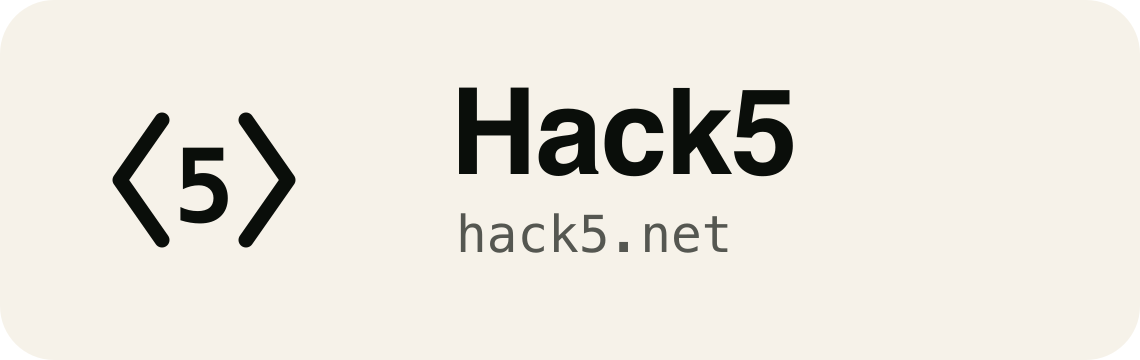
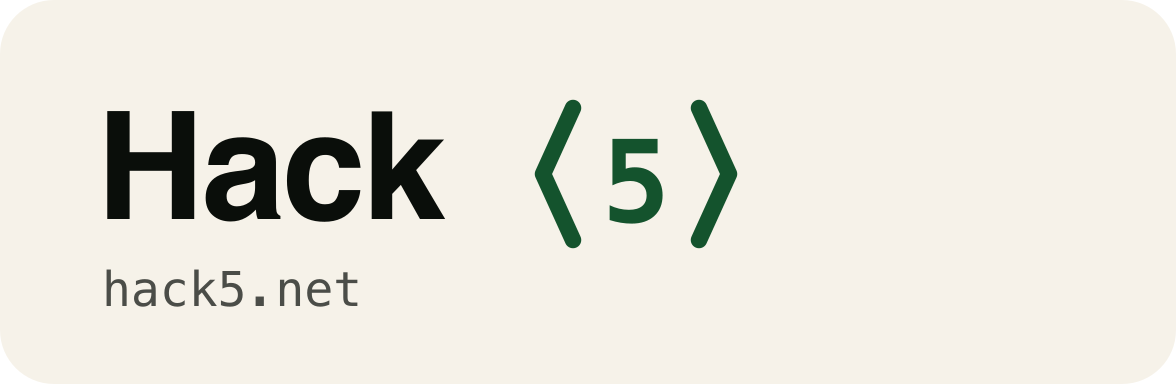
feat(brand): wordmark → Hack‹5›, Matrix green #00FF41 on dark
Per feedback:
- Wordmark 'Hack5' → 'Hack‹5›' (the ‹5› brand glyph replaces the '5'); the
  full lockup drops the separate leading ‹5› (that stays only as the
  standalone mark). Applied to brand assets, media-kit cards, nav, emails,
  and the poster (cream chip removed → 'Hack‹5›' wordmark).
- On-dark green forest #2F9E5F → Matrix #00FF41 everywhere (favicon, poster
  logo+underline+glow, color palette, media-kit black card).
- Cream lockup stays two-tone: black 'Hack' + ink-green ‹5›.
- Regenerated the 4 brand assets (SVG+PNG) with the new structure/colors.
Rendered previews confirmed (lockups + poster).

Changed region(s): [[0.0921, 0.2444, 0.7061, 0.7944]]

diff --git a/src/index.ts b/src/index.ts
@@ -1250,7 +1250,7 @@ async function sendHackathonReadyEmail(env: Env, email: string, name: string, ur
     `<div style="background:#f6f7fb;padding:32px 16px;font-family:-apple-system,BlinkMacSystemFont,'Segoe UI',Roboto,Helvetica,Arial,sans-serif">` +
     `<table role="presentation" width="100%" cellpadding="0" cellspacing="0"><tr><td align="center">` +
     `<table role="presentation" width="460" cellpadding="0" cellspacing="0" style="max-width:460px;width:100%">` +
-    `<tr><td align="center" style="padding-bottom:20px"><span style="display:inline-block;width:40px;height:40px;line-height:40px;background:#f6f2e9;border:1px solid rgba(20,83,45,.25);box-sizing:border-box;border-radius:11px;color:#14532d;font-family:ui-monospace,Menlo,Consolas,monospace;font-weight:800;font-size:18px;text-align:center;vertical-align:middle">&#8249;5&#8250;</span><span style="font-size:22px;font-weight:800;color:#14532d;vertical-align:middle;padding-left:10px">Hack5</span></td></tr>` +
+    `<tr><td align="center" style="padding-bottom:20px"><span style="font-size:24px;font-weight:800;color:#14532d;font-family:ui-monospace,Menlo,Consolas,monospace">Hack&#8249;5&#8250;</span></td></tr>` +
     `<tr><td style="background:#ffffff;border-radius:14px;padding:30px 28px;border:1px solid #e6e9f0">` +
     `<h1 style="font-size:20px;margin:0 0 6px;color:#14161c">${escapeHtml(name)} ` + `<span style="color:#0f9d6b">✓</span></h1>` +
     `<p style="color:#5f6675;font-size:15px;margin:0 0 16px">你的黑客松已就绪 · Your hackathon is live</p>` +
@@ -1306,7 +1306,7 @@ async function sendRegistrationConfirmEmail(
     `<div style="background:#f6f7fb;padding:32px 16px;font-family:-apple-system,BlinkMacSystemFont,'Segoe UI',Roboto,Helvetica,Arial,sans-serif">` +
     `<table role="presentation" width="100%" cellpadding="0" cellspacing="0"><tr><td align="center">` +
     `<table role="presentation" width="460" cellpadding="0" cellspacing="0" style="max-width:460px;width:100%">` +
-    `<tr><td align="center" style="padding-bottom:20px"><span style="display:inline-block;width:40px;height:40px;line-height:40px;background:#f6f2e9;border:1px solid rgba(20,83,45,.25);box-sizing:border-box;border-radius:11px;color:#14532d;font-family:ui-monospace,Menlo,Consolas,monospace;font-weight:800;font-size:18px;text-align:center;vertical-align:middle">&#8249;5&#8250;</span><span style="font-size:22px;font-weight:800;color:#14532d;vertical-align:middle;padding-left:10px">Hack5</span></td></tr>` +
+    `<tr><td align="center" style="padding-bottom:20px"><span style="font-size:24px;font-weight:800;color:#14532d;font-family:ui-monospace,Menlo,Consolas,monospace">Hack&#8249;5&#8250;</span></td></tr>` +
     `<tr><td style="background:#ffffff;border-radius:14px;padding:30px 28px;border:1px solid #e6e9f0">` +
     `<h1 style="font-size:20px;margin:0 0 6px;color:#14161c">${escapeHtml(hackathonName)} <span style="color:#0f9d6b">✓</span></h1>` +
     `<p style="color:#5f6675;font-size:15px;margin:0 0 14px">报名成功 · You are registered</p>` +
@@ -1362,8 +1362,7 @@ async function sendEmailCode(env: Env, email: string, code: string): Promise<boo
     `<table role="presentation" width="100%" cellpadding="0" cellspacing="0"><tr><td align="center">` +
     `<table role="presentation" width="440" cellpadding="0" cellspacing="0" style="max-width:440px;width:100%">` +
     `<tr><td align="center" style="padding-bottom:22px">` +
-    `<span style="display:inline-block;width:40px;height:40px;line-height:38px;background:#f6f2e9;border:1px solid rgba(20,83,45,.25);box-sizing:border-box;border-radius:11px;color:#14532d;font-family:ui-monospace,Menlo,Consolas,monospace;font-weight:800;font-size:18px;text-align:center;vertical-align:middle">&#8249;5&#8250;</span>` +
-    `<span style="font-size:22px;font-weight:800;color:#14532d;vertical-align:middle;padding-left:10px">Hack5</span>` +
+    `<span style="font-size:24px;font-weight:800;color:#14532d;font-family:ui-monospace,Menlo,Consolas,monospace">Hack&#8249;5&#8250;</span>` +
     `</td></tr>` +
     `<tr><td style="background:#ffffff;border-radius:14px;padding:30px 28px;border:1px solid #e6e9f0">` +
     `<p style="color:#5f6675;font-size:15px;margin:0 0 10px">你的 Hack5 登录验证码 · Your login code</p>` +
@@ -2692,10 +2691,9 @@ async function sendBuildQueuedEmail(
     `你的作品「${projectName}」已排队构建 ✨\n\n` +
     `公有仓库:${repoUrl}\n作品详情(含实时构建进度):${viewUrl}\n\n` +
     `编辑令牌(请妥善保存,用于日后编辑作品):${editToken}\n\n— Hack5`;
-  const badge = `<span style="display:inline-block;width:40px;height:40px;line-height:38px;background:#f6f2e9;border:1px solid rgba(20,83,45,.25);box-sizing:border-box;border-radius:11px;color:#14532d;font-family:ui-monospace,Menlo,Consolas,monospace;font-weight:800;font-size:18px;text-align:center;vertical-align:middle">&#8249;5&#8250;</span>`;
   const html =
     `<div style="font-family:-apple-system,Segoe UI,Roboto,sans-serif;max-width:520px;margin:0 auto;color:#14161c">` +
-    `<div style="text-align:center;padding:8px 0 16px">${badge}<span style="font-size:22px;font-weight:800;color:#14532d;vertical-align:middle;padding-left:10px">Hack5</span></div>` +
+    `<div style="text-align:center;padding:8px 0 16px"><span style="font-size:24px;font-weight:800;color:#14532d;font-family:ui-monospace,Menlo,Consolas,monospace">Hack&#8249;5&#8250;</span></div>` +
     `<p style="font-size:16px">你的作品 <b>${escapeHtml(projectName)}</b> 已排队构建 ✨</p>` +
     `<p style="font-size:14px;color:#3c4250">公有仓库:<a href="${escapeHtml(repoUrl)}">${escapeHtml(repoUrl)}</a><br>` +
     `作品详情(含实时构建进度):<a href="${escapeHtml(viewUrl)}">${escapeHtml(viewUrl)}</a></p>` +
@@ -4197,13 +4195,11 @@ const APP_HTML = String.raw`<!doctype html>
 <body>
   <header>
     <div class="brand" onclick="go('/')">
-      <svg width="32" height="32" viewBox="0 0 40 40" aria-hidden="true" style="flex:0 0 auto">
-        <rect width="40" height="40" rx="11" fill="#f6f2e9" stroke="#14532d" stroke-opacity=".22"/>
-        <path d="M12 13 6.5 20 12 27" fill="none" stroke="#14532d" stroke-width="2.4" stroke-linecap="round" stroke-linejoin="round"/>
-        <path d="M28 13 33.5 20 28 27" fill="none" stroke="#14532d" stroke-width="2.4" stroke-linecap="round" stroke-linejoin="round"/>
-        <text x="20" y="26.5" text-anchor="middle" font-family="ui-monospace,Menlo,monospace" font-size="17" font-weight="800" fill="#14532d">5</text>
-      </svg>
-      <span id="brandName">Hack5</span></div>
+      <span id="brandName">Hack</span><svg width="27" height="27" viewBox="0 0 40 40" aria-hidden="true" style="flex:0 0 auto;margin-left:1px">
+        <path d="M12 13 6.5 20 12 27" fill="none" stroke="#14532d" stroke-width="2.6" stroke-linecap="round" stroke-linejoin="round"/>
+        <path d="M28 13 33.5 20 28 27" fill="none" stroke="#14532d" stroke-width="2.6" stroke-linecap="round" stroke-linejoin="round"/>
+        <text x="20" y="26.5" text-anchor="middle" font-family="ui-monospace,Menlo,monospace" font-size="18" font-weight="800" fill="#14532d">5</text>
+      </svg></div>
     <nav id="nav"></nav>
   </header>
   <main id="app"></main>
@@ -4938,19 +4934,19 @@ const APP_HTML = String.raw`<!doctype html>
   // displayed + mark-only + PNG) + usage note. Marks inlined so it renders without a fetch.
   function mediaKitHtml(){
     // Unified mark: ‹5› chevrons + "5", one color per theme. Cream lockup = black; black lockup = forest green.
-    const mkMark = function(c){ return '<svg xmlns="http://www.w3.org/2000/svg" viewBox="0 0 40 40" width="52" height="52" aria-label="Hack5">'
+    // The ‹5› chevron mark, inline inside the "Hack‹5›" wordmark (no separate leading mark).
+    const mkMark = function(c,sz){ sz=sz||40; return '<svg xmlns="http://www.w3.org/2000/svg" viewBox="0 0 40 40" width="'+sz+'" height="'+sz+'" aria-label="5">'
       +'<path d="M12 13 6.5 20 12 27" fill="none" stroke="'+c+'" stroke-width="2.4" stroke-linecap="round" stroke-linejoin="round"/>'
       +'<path d="M28 13 33.5 20 28 27" fill="none" stroke="'+c+'" stroke-width="2.4" stroke-linecap="round" stroke-linejoin="round"/>'
       +'<text x="20" y="26.5" text-anchor="middle" font-family="ui-monospace,Menlo,monospace" font-size="17" font-weight="800" fill="'+c+'">5</text></svg>'; };
-    const card = function(bg,c){ return '<div style="flex:1;min-width:210px;background:'+bg+';border-radius:14px;padding:22px;display:flex;align-items:center;gap:14px;border:1px solid rgba(128,128,128,.14)">'
-      +'<span style="flex:none;line-height:0">'+mkMark(c)+'</span>'
-      +'<div><div style="font-size:23px;font-weight:800;color:'+c+';font-family:ui-monospace,Menlo,monospace;letter-spacing:-.5px">Hack5</div>'
-      +'<div style="font-size:13px;color:'+c+';opacity:.7">hack5.net</div></div></div>'; };
+    const card = function(bg,hackC,markC){ return '<div style="flex:1;min-width:210px;background:'+bg+';border-radius:14px;padding:22px;border:1px solid rgba(128,128,128,.14)">'
+      +'<div style="display:flex;align-items:center;gap:2px"><span style="font-size:30px;font-weight:800;color:'+hackC+';font-family:Inter,ui-sans-serif,-apple-system,sans-serif;letter-spacing:-1px;line-height:1">Hack</span><span style="line-height:0">'+mkMark(markC,42)+'</span></div>'
+      +'<div style="font-size:13px;color:'+hackC+';opacity:.65;font-family:ui-monospace,Menlo,monospace;margin-top:6px">hack5.net</div></div>'; };
     return '<h2 style="margin:30px 2px 12px;font-size:20px">'+t('媒体资源','Media kit')+'</h2>'
       + '<div class="panel">'
       +   '<div style="display:flex;gap:16px;flex-wrap:wrap">'
-      +     card('#f6f2e9','#0a0e0a')   // cream bg → black lockup
-      +     card('#0a0e0a','#2f9e5f')   // black bg → forest-green lockup
+      +     card('#f6f2e9','#0a0e0a','#14532d')   // cream: black "Hack" + ink-green ‹5›
+      +     card('#0a0e0a','#00ff41','#00ff41')   // black: all matrix green
       +   '</div>'
       +   '<div class="muted" style="font-size:12px;margin:14px 0 6px">'+t('完整标识(字符标 + 字标 + 域名,即上图):','Full lockup (mark + wordmark + domain, as shown):')+'</div>'
       +   '<div class="row" style="gap:8px;flex-wrap:wrap">'
@@ -4966,7 +4962,7 @@ const APP_HTML = String.raw`<!doctype html>
       +     '<a href="/brand/hack5-mark-black.png" download><button class="ghost">⬇ '+t('黑底(森绿标)','Black (green mark)')+' PNG</button></a>'
       +     '<a href="/brand/hack5-mark-black.svg" download><button class="ghost">⬇ SVG</button></a>'
       +   '</div>'
-      +   '<p class="muted" style="margin:12px 2px 0;font-size:12.5px;line-height:1.7">'+t('配色统一:墨绿 #14532D(奶白底的字符标)· 森林绿 #2F9E5F(黑底)· 黑 #0A0E0A(奶白底的字标)· 奶白 #F6F2E9。标识 = &lt;5&gt; 字符标 + 「Hack5」字标 + hack5.net。转载/报道请直接使用以上文件,勿改色、勿变形、勿加边框。','Unified palette: ink-green #14532D (mark on cream) · forest-green #2F9E5F (on black) · black #0A0E0A (wordmark on cream) · cream #F6F2E9. The mark is the &lt;5&gt; glyph + the “Hack5” wordmark + hack5.net. For press, use the files as-is — do not recolor, distort, or add borders.')+'</p>'
+      +   '<p class="muted" style="margin:12px 2px 0;font-size:12.5px;line-height:1.7">'+t('配色:黑客帝国绿 #00FF41(黑底)· 墨绿 #14532D(奶白底的 ‹5›)· 黑 #0A0E0A(奶白底的 Hack)· 奶白 #F6F2E9。标识 = 「Hack‹5›」字标(‹5› 即品牌符),下方 hack5.net;另有独立 ‹5› 符号标。转载/报道请直接使用以上文件,勿改色、勿变形、勿加边框。','Palette: Matrix-green #00FF41 (on black) · ink-green #14532D (the ‹5› on cream) · black #0A0E0A (“Hack” on cream) · cream #F6F2E9. The lockup is the “Hack‹5›” wordmark (‹5› is the brand glyph) with hack5.net below; a standalone ‹5› mark is also provided. For press, use the files as-is — do not recolor, distort, or add borders.')+'</p>'
       + '</div>';
   }
   function renderAbout(){
@@ -5436,7 +5432,7 @@ const APP_HTML = String.raw`<!doctype html>
     // the event's stored name is a proper noun and doesn't translate with the UI language toggle.
     const name = (opts.title!=null && String(opts.title).trim()!=='') ? String(opts.title).slice(0,60) : (tn.name || 'Hackathon');
     const nameColor = opts.nameColor || '#ffffff';   // event title
-    const logoColor = opts.logoColor || '#2f9e5f';   // "Hack5" wordmark in brand forest-green on the dark poster (the ‹5› mark stays ink-green on its cream chip)
+    const logoColor = opts.logoColor || '#00ff41';   // "Hack5" wordmark in brand forest-green on the dark poster (the ‹5› mark stays ink-green on its cream chip)
     const nameLines = wrapText(name, name.length>16?14:10, 3);
     const nameFs = nameLines.length>=3?56:(name.length>14?66:84);
     const introLines = wrapText(String(tn.intro||'').replace(/\s+/g,' ').slice(0,70), 32, 2); // ≤70 chars, smaller font
@@ -5447,22 +5443,22 @@ const APP_HTML = String.raw`<!doctype html>
       + '<defs>'
       + '<linearGradient id="pbg" x1="0" y1="0" x2="0.4" y2="1"><stop offset="0" stop-color="#141a2e"/><stop offset="0.55" stop-color="#0c1020"/><stop offset="1" stop-color="#080a12"/></linearGradient>'
       + '<radialGradient id="pglow" cx="0.82" cy="0.12" r="0.5"><stop offset="0" stop-color="#5b4be6" stop-opacity="0.55"/><stop offset="1" stop-color="#5b4be6" stop-opacity="0"/></radialGradient>'
-      + '<radialGradient id="pglow2" cx="0.1" cy="0.9" r="0.5"><stop offset="0" stop-color="#2f9e5f" stop-opacity="0.18"/><stop offset="1" stop-color="#2f9e5f" stop-opacity="0"/></radialGradient>'
+      + '<radialGradient id="pglow2" cx="0.1" cy="0.9" r="0.5"><stop offset="0" stop-color="#00ff41" stop-opacity="0.18"/><stop offset="1" stop-color="#00ff41" stop-opacity="0"/></radialGradient>'
       + '<linearGradient id="pcta" x1="0" y1="0" x2="1" y2="0"><stop offset="0" stop-color="#6d5cf0"/><stop offset="1" stop-color="#8b7bff"/></linearGradient>'
       + '<linearGradient id="pscrim" x1="0" y1="0" x2="0" y2="1"><stop offset="0" stop-color="#080a12" stop-opacity="0.7"/><stop offset="0.45" stop-color="#080a12" stop-opacity="0.25"/><stop offset="1" stop-color="#080a12" stop-opacity="0.92"/></linearGradient>'
       + '</defs>'
       + (bg
           ? '<rect width="794" height="1123" fill="#080a12"/><image href="'+bg+'" x="0" y="0" width="794" height="1123" preserveAspectRatio="xMidYMid slice"/><rect width="794" height="1123" fill="url(#pscrim)"/>'
           : '<rect width="794" height="1123" fill="url(#pbg)"/><rect width="794" height="1123" fill="url(#pglow)"/><rect width="794" height="1123" fill="url(#pglow2)"/><text x="470" y="1050" font-family="ui-monospace,monospace" font-size="520" font-weight="800" fill="#ffffff" opacity="0.03">5</text>')
-      + '<g transform="translate(64,74)"><rect width="52" height="52" rx="14" fill="#f6f2e9"/><rect width="52" height="52" rx="14" fill="none" stroke="#14532d" stroke-opacity="0.3"/><text x="26" y="35" text-anchor="middle" font-family="ui-monospace,monospace" font-size="23" font-weight="800" fill="#14532d">&#8249;5&#8250;</text></g>'
-      + '<text x="130" y="108" font-family="ui-monospace,monospace" font-size="27" font-weight="800" fill="'+logoColor+'" letter-spacing="0.5">Hack5</text>'
+      + '<text x="64" y="104" font-family="Inter,ui-sans-serif,-apple-system,sans-serif" font-size="30" font-weight="800" fill="'+logoColor+'" letter-spacing="-0.5">Hack</text>'
+      + '<g transform="translate(146,78)"><path d="M8 4 2 17 8 30" fill="none" stroke="'+logoColor+'" stroke-width="3.4" stroke-linecap="round" stroke-linejoin="round"/><path d="M34 4 40 17 34 30" fill="none" stroke="'+logoColor+'" stroke-width="3.4" stroke-linecap="round" stroke-linejoin="round"/><text x="21" y="25" text-anchor="middle" font-family="ui-monospace,monospace" font-size="21" font-weight="800" fill="'+logoColor+'">5</text></g>'
       + '<text x="730" y="105" text-anchor="end" font-family="-apple-system,sans-serif" font-size="13" fill="#8b93b5" letter-spacing="4">HACKATHON</text>';
     let y=300;
     if(eyebrow){ svg+='<text x="64" y="'+y+'" font-family="-apple-system,sans-serif" font-size="19" font-weight="600" fill="#8b7bff" letter-spacing="1.5">'+esc(eyebrow.slice(0,60))+'</text>'; y+=20; }
     y+=48;
     nameLines.forEach((ln,i)=>{ svg+='<text x="62" y="'+(y+i*(nameFs+4))+'" font-family="Inter,-apple-system,sans-serif" font-size="'+nameFs+'" font-weight="800" fill="'+nameColor+'" letter-spacing="-1">'+esc(ln)+'</text>'; });
     y = y + nameLines.length*(nameFs+4) + 18;
-    svg+='<rect x="64" y="'+y+'" width="64" height="5" rx="2.5" fill="#2f9e5f"/>'; y+=44;
+    svg+='<rect x="64" y="'+y+'" width="64" height="5" rx="2.5" fill="#00ff41"/>'; y+=44;
     introLines.forEach((ln,i)=>{ svg+='<text x="64" y="'+(y+i*34)+'" font-family="-apple-system,sans-serif" font-size="22" fill="#aeb6cc">'+esc(ln)+'</text>'; });
     y += introLines.length*36 + 40;
     bits.forEach((b,i)=>{ svg+='<text x="64" y="'+(y+i*46)+'" font-family="-apple-system,sans-serif" font-size="22" fill="#dbe0ee">'+b[0]+'  '+esc(String(b[1]).slice(0,40))+'</text>'; });
@@ -5494,8 +5490,8 @@ const APP_HTML = String.raw`<!doctype html>
   function qrToPng(sub){ return new Promise(function(res,rej){ const img=new Image(); img.onload=function(){ const c=document.createElement('canvas'); c.width=c.height=252; const x=c.getContext('2d'); x.fillStyle='#ffffff'; x.fillRect(0,0,252,252); x.drawImage(img,0,0,252,252); try{ res(c.toDataURL('image/png')); }catch(e){ rej(e); } }; img.onerror=function(){ rej(new Error('qr')); }; img.src='/qr/'+encodeURIComponent(sub); }); }
   // Shared poster editor state (title override + logo/name colors), read by every posterSvg() call.
   const posterOpts = { title:null, nameColor:'', logoColor:'' };
-  const NAME_COLORS = ['#ffffff','#2f9e5f','#8b7bff','#ffd166','#ff6b6b','#0a0e0a'];
-  const LOGO_COLORS = ['#ffffff','#2f9e5f','#8b7bff','#ffd166','#0a0e0a'];
+  const NAME_COLORS = ['#ffffff','#00ff41','#8b7bff','#ffd166','#ff6b6b','#0a0e0a'];
+  const LOGO_COLORS = ['#ffffff','#00ff41','#8b7bff','#ffd166','#0a0e0a'];
   // Title + color controls, reused on /poster and /share. repaint() re-renders the current preview.
   function posterControlsHtml(){
     const sw=function(c,cls){ return '<button class="'+cls+'" data-c="'+esc(c)+'" title="'+esc(c)+'" style="width:26px;height:26px;border-radius:7px;border:2px solid var(--line);background:'+esc(c)+';cursor:pointer;padding:0"></button>'; };

diff --git a/src/assets.ts b/src/assets.ts
@@ -2,9 +2,9 @@
 // (Workers can't read repo files at runtime). Source SVG/PNG live in /assets.
 export const FAVICON_SVG = `<svg xmlns="http://www.w3.org/2000/svg" viewBox="0 0 40 40" width="40" height="40">
   <rect width="40" height="40" rx="11" fill="#0a0e0a"/>
-  <path d="M12 13 6.5 20 12 27" fill="none" stroke="#2f9e5f" stroke-width="2.4" stroke-linecap="round" stroke-linejoin="round"/>
-  <path d="M28 13 33.5 20 28 27" fill="none" stroke="#2f9e5f" stroke-width="2.4" stroke-linecap="round" stroke-linejoin="round"/>
-  <text x="20" y="26.5" text-anchor="middle" font-family="ui-monospace,Menlo,monospace" font-size="17" font-weight="800" fill="#2f9e5f">5</text>
+  <path d="M12 13 6.5 20 12 27" fill="none" stroke="#00ff41" stroke-width="2.4" stroke-linecap="round" stroke-linejoin="round"/>
+  <path d="M28 13 33.5 20 28 27" fill="none" stroke="#00ff41" stroke-width="2.4" stroke-linecap="round" stroke-linejoin="round"/>
+  <text x="20" y="26.5" text-anchor="middle" font-family="ui-monospace,Menlo,monospace" font-size="17" font-weight="800" fill="#00ff41">5</text>
 </svg>`;
 
 export const OG_PNG_B64 =
